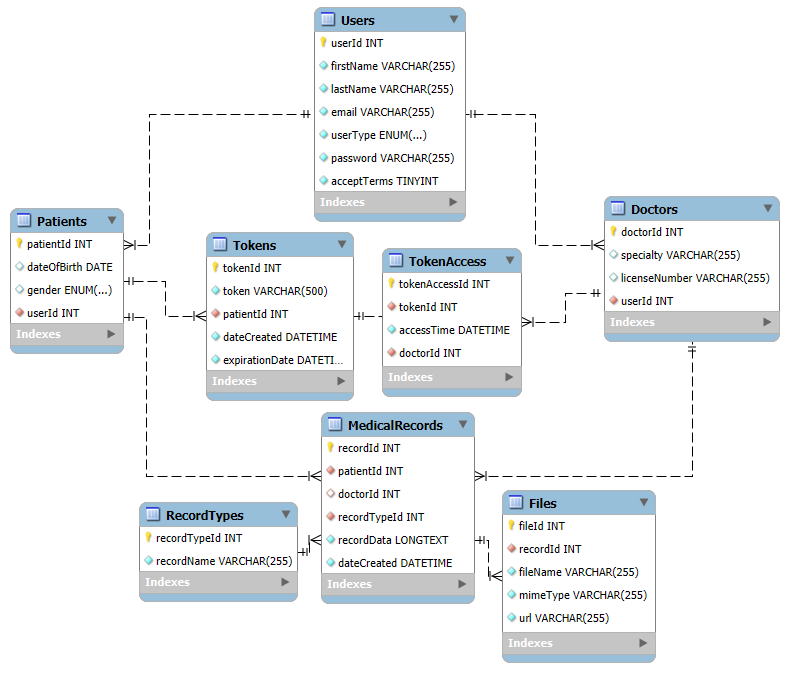
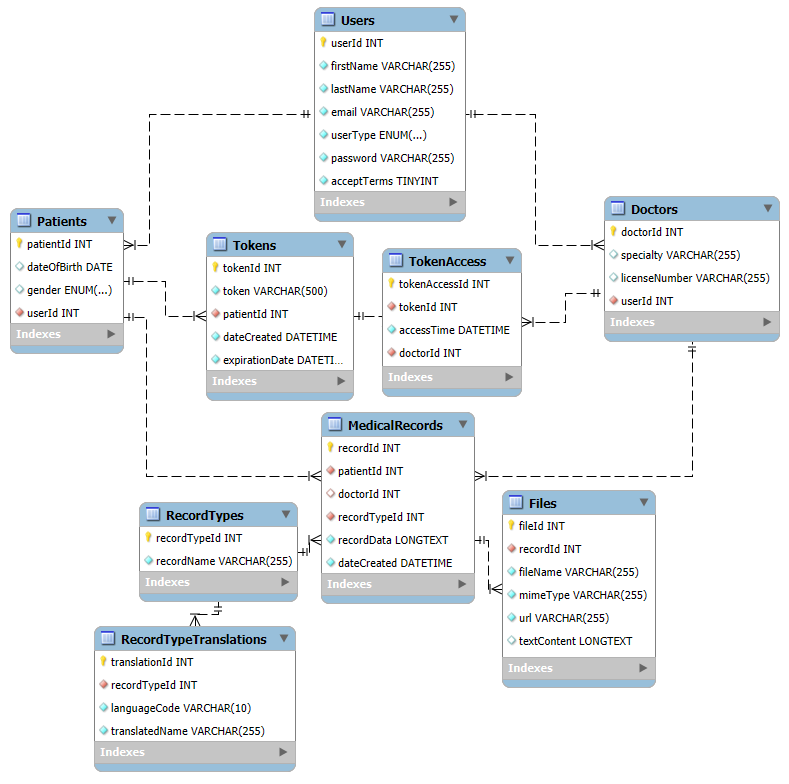
record type translation

Changed region(s): [[0.1217, 0.0, 0.8517, 0.9956], [0.73, 0.2489, 1.0, 0.5289], [0.0, 0.2489, 0.1825, 0.5289]]

diff --git a/client/src/hooks/hooks.js b/client/src/hooks/hooks.js
@@ -309,7 +309,7 @@ export const useInactiveTokens = (limit, offset) => {
 
 
 export const useRecordTypes = () => {
-    const { data, loading, error } = useQuery(recordTypesQuery, { fetchPolicy: 'network-only' });
+    const { data, loading, error } = useQuery(recordTypesQuery, { fetchPolicy: 'cache-and-network' });
     return {recordTypes: data?.recordTypes, loadingRecordTypes: loading, errorRecordTypes: Boolean(error)};
 };
 
@@ -329,16 +329,10 @@ export const useCreateRecordType = () => {
             update: (cache, { data: { createRecordType }}) => {
                 if (createRecordType.recordTypeError) return;
                 const existingCacheData = cache.readQuery({ query: recordTypesQuery });
-                const newRecordType = {
-                    __typename: 'RecordTypes',
-                    recordTypeId: createRecordType.recordTypeId,
-                    recordName: createRecordType.recordName,
-                };
                 const updatedRecordTypes = [
                     ...existingCacheData.recordTypes,
-                    newRecordType,
+                    createRecordType.recordType
                 ];
-                updatedRecordTypes.sort((a, b) => a.recordName.localeCompare(b.recordName));
                 cache.writeQuery({
                     query: recordTypesQuery,
                     data: { recordTypes: updatedRecordTypes }

diff --git a/client/src/graphql/mutations.js b/client/src/graphql/mutations.js
@@ -1,5 +1,5 @@
 import { gql } from "@apollo/client";
-import { userConfirmationFragment, userDetailFragment, patientDetailFragment, doctorDetailFragment, medicalRecordsFragment, tokenFragment, tokenAccessFragment, fileFragment } from "./fragments";
+import { userConfirmationFragment, userDetailFragment, patientDetailFragment, doctorDetailFragment, medicalRecordsFragment, tokenFragment, tokenAccessFragment, fileFragment, recordTypeFragment } from "./fragments";
 
 
 export const mutationCreateUser = gql`
@@ -151,10 +151,12 @@ export const mutationCreateRecordType = gql`
         createRecordType(recordName: $recordName) {
             recordTypeError
             recordTypeConfirmation
-            recordTypeId
-            recordName
+            recordType {
+                ...RecordTypeDetail
+            }
         }
     }
+    ${recordTypeFragment}
 `;
 
 

diff --git a/client/src/pages/insertMedicalRecord.js b/client/src/pages/insertMedicalRecord.js
@@ -125,9 +125,7 @@ const InsertMedicalRecord = () => {
             if (resRecordType.recordTypeError) {
                 showMessage('error', translations?.error?.title, translations?.error?.[resRecordType.recordTypeError])
             } else {
-                // translations.insertMedicalRecord.recordTypes[resRecordType.recordName] = 'Dentista';
-                // console.log('[translations]', translations);
-                formik.setFieldValue("recordTypeId", resRecordType.recordTypeId);
+                formik.setFieldValue("recordTypeId", resRecordType.recordType.recordTypeId);
                 setVisible(false);
             };
         },

diff --git a/server/resolver.py b/server/resolver.py
@@ -603,15 +603,14 @@ def resolve_create_record_type(*_, recordName):
     if not recordName:
         return {'recordTypeError': 'langNotDetected'}
 
-    res = check_translate_word(recordName)
-
-    if res['error'] or res['confidence'] < 0.5:
+    translations = check_translate_word(recordName)
+    if translations['error'] or translations['confidence'] < 0.5:
         return {'recordTypeError': 'langNotDetected'}
-    print(res)
 
-    return create_record_type(res['translations']['en'])
-
-    # return create_record_type(recordName)
+    res = create_record_type(translations['translations']['en'], translations['translations']['pt'])
+    if res['recordTypeConfirmation']:
+        res['recordType'] = get_medical_records_type(res['recordTypeId'])
+    return res
 
 
 @query.field("activePatientTokens")

diff --git a/server/db/mutations.py b/server/db/mutations.py
@@ -159,7 +159,7 @@ def create_token_access(tokenId: int, doctorId: int) -> None | dict:
     return None if not confirmation else confirmation[0]
 
 
-def create_record_type(recordName: str) -> None | dict:
+def create_record_type(recordName: str, ptTranslation: str) -> None | dict:
     """
     Creates a new record type in the database.
 
@@ -172,7 +172,7 @@ def create_record_type(recordName: str) -> None | dict:
         None | dict: None if the record type creation failed, or a dictionary containing
                      information about the created record type if successful.
     """
-    args = [recordName]
+    args = [recordName, ptTranslation]
     query = 'AddRecordType'
     confirmation = mysql_client(query, 'procedure', args)
     return None if not confirmation else confirmation[0]
